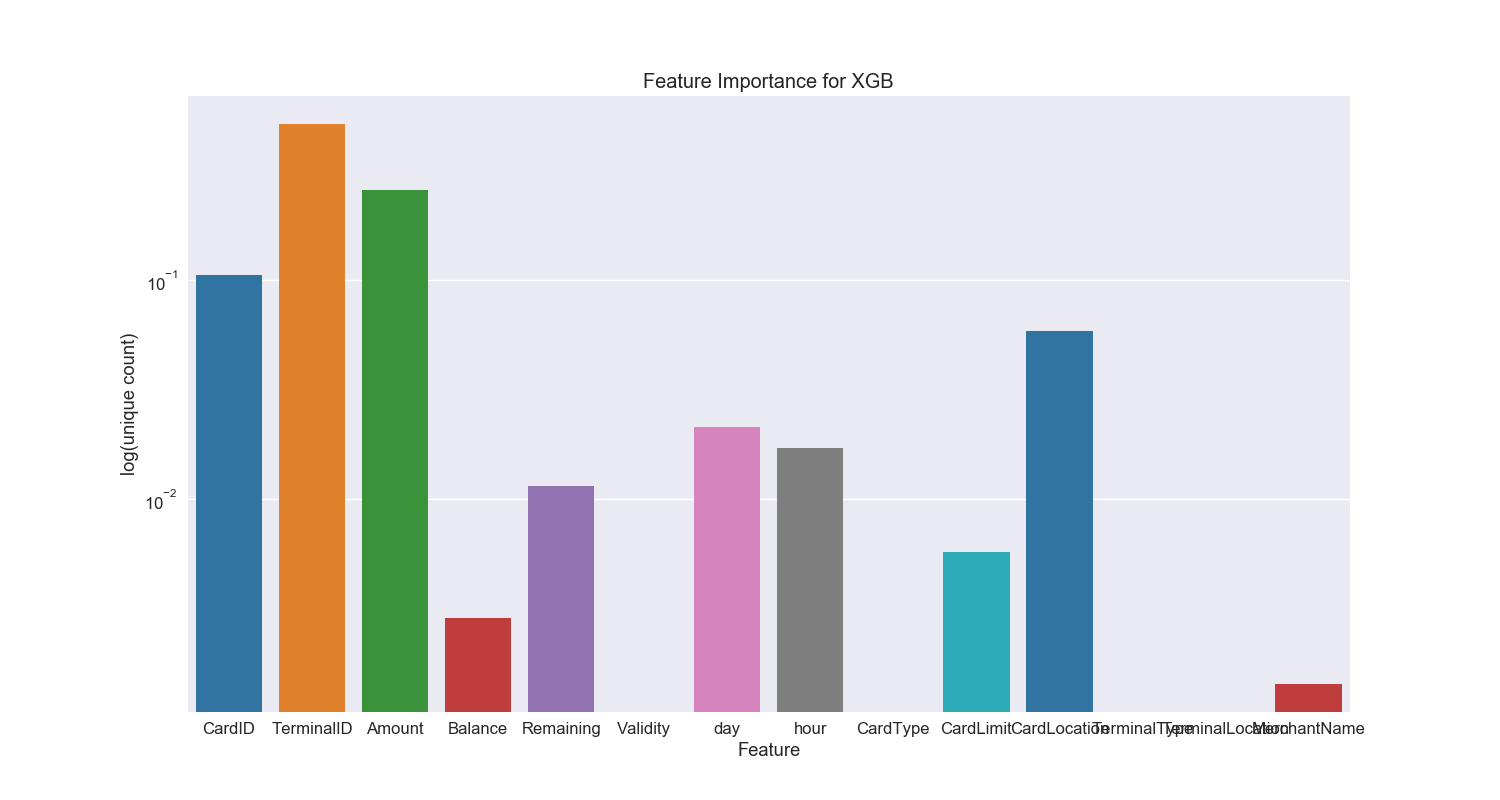
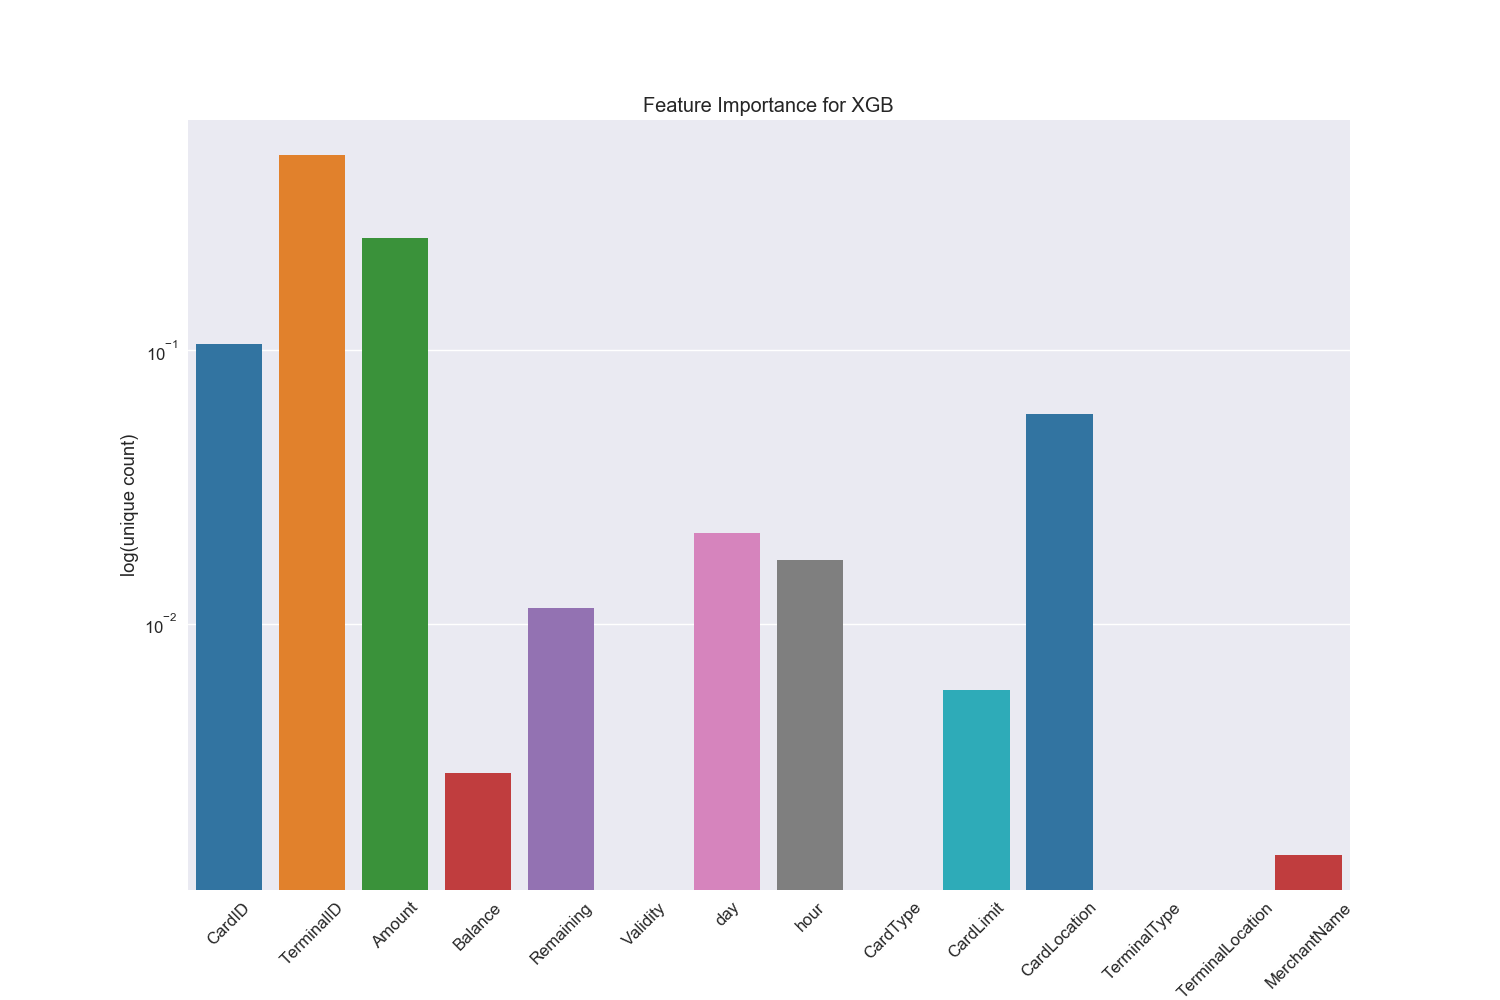
feature importance plot of XGB updated

diff --git a/ML/featureImportance.py b/ML/featureImportance.py
@@ -28,13 +28,14 @@ mapping = {'A': 1, 'B': 2, 'C': 3, 'D': 4, 'E': 5, 'POS': 0, 'ATM': 1,
 
 dfTrain = dfTrain.replace(mapping)
 
-plt.figure(figsize=(15, 8))
+plt.figure(figsize=(15, 10))
 pal = sns.color_palette()
 uniques = [len(dfTrain[col].unique()) for col in variables]
 sns.set(font_scale=1.2)
 ax = sns.barplot(variables, uniques, palette=pal, log=True)
 ax.set(xlabel='Feature', ylabel='log(unique count)', title='Number of unique values per feature')
-for p, uniq in zip(ax.patches, uniques):
+for xt, p, uniq in zip(ax.get_xticklabels(), ax.patches, uniques):
+    xt.set_rotation(45)
     height = p.get_height()
     ax.text(p.get_x()+p.get_width()/2.,
             height + 10,
@@ -54,7 +55,8 @@ for i in range(0, len(variables)):
 plt.clf()
 ax = sns.barplot(variables, model.feature_importances_, palette=pal, log=True)
 ax.set(xlabel='Feature', ylabel='log(unique count)', title='Feature Importance for XGB')
-for p, uniq in zip(ax.patches, model.feature_importances_):
+for xt, p, uniq in zip(ax.get_xticklabels(), ax.patches, model.feature_importances_):
+    xt.set_rotation(45)
     height = p.get_height()
     ax.text(p.get_x()+p.get_width()/2.,
             height + 10,
